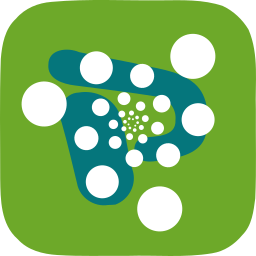
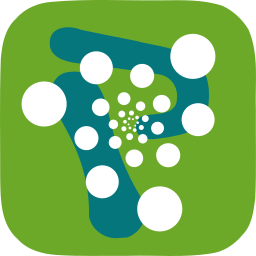
cosmetic changes

diff --git a/seeweb/scripts/initializedb.py b/seeweb/scripts/initializedb.py
@@ -8,7 +8,7 @@ from sqlalchemy import engine_from_config
 import transaction
 from uuid import uuid1
 
-from seeweb.avatar import upload_user_avatar
+from seeweb.avatar import upload_team_avatar, upload_user_avatar
 from seeweb.io import rmtree
 from seeweb.models import Base, DBSession
 from seeweb.models import installed  # used to create the associated table
@@ -146,6 +146,8 @@ def main(argv=sys.argv):
         sub_team.add_auth(session, subsub_team, Role.edit)
 
         vplants = Team.create(session, tid="vplants")
+        img = Image.open("seeweb/scripts/avatar/vplants.png")
+        upload_team_avatar(img, vplants)
         vplants.description = """
 Team
 ----
@@ -157,6 +159,8 @@ INRIA team based in Montpellier
         vplants.add_auth(session, fboudon, Role.view)
 
         oa = Team.create(session, tid="openalea")
+        img = Image.open("seeweb/scripts/avatar/openalea.png")
+        upload_team_avatar(img, oa)
         oa.description = """
 Community
 ---------

diff --git a/seeweb/views/project/edit_home.py b/seeweb/views/project/edit_home.py
@@ -1,3 +1,4 @@
+from pyramid.httpexceptions import HTTPFound
 from pyramid.view import view_config
 
 from seeweb.avatar import load_image, upload_project_avatar
@@ -24,6 +25,8 @@ def view(request):
                 img = load_image(field_storage)
                 upload_project_avatar(img, project)
                 request.session.flash("Avatar submitted", 'success')
+                loc = request.route_url('project_view_home', pid=project.id)
+                return HTTPFound(location=loc)
             except IOError:
                 request.session.flash("Unable to read image", 'warning')
     else:

diff --git a/seeweb/views/team/edit_home.py b/seeweb/views/team/edit_home.py
@@ -1,3 +1,4 @@
+from pyramid.httpexceptions import HTTPFound
 from pyramid.view import view_config
 
 from seeweb.avatar import load_image, upload_team_avatar
@@ -24,6 +25,8 @@ def view(request):
                 img = load_image(field_storage)
                 upload_team_avatar(img, team)
                 request.session.flash("Avatar submitted", 'success')
+                loc = request.route_url('team_view_home', tid=team.id)
+                return HTTPFound(location=loc)
             except IOError:
                 request.session.flash("Unable to read image", 'warning')
     else:

diff --git a/seeweb/views/user/edit_home.py b/seeweb/views/user/edit_home.py
@@ -1,3 +1,4 @@
+from pyramid.httpexceptions import HTTPFound
 from pyramid.view import view_config
 
 from seeweb.avatar import load_image, upload_user_avatar
@@ -24,6 +25,8 @@ def view(request):
                 img = load_image(field_storage)
                 upload_user_avatar(img, user)
                 request.session.flash("Avatar submitted", 'success')
+                loc = request.route_url('user_view_home', uid=user.id)
+                return HTTPFound(location=loc)
             except IOError:
                 request.session.flash("Unable to read image", 'warning')
     else:
